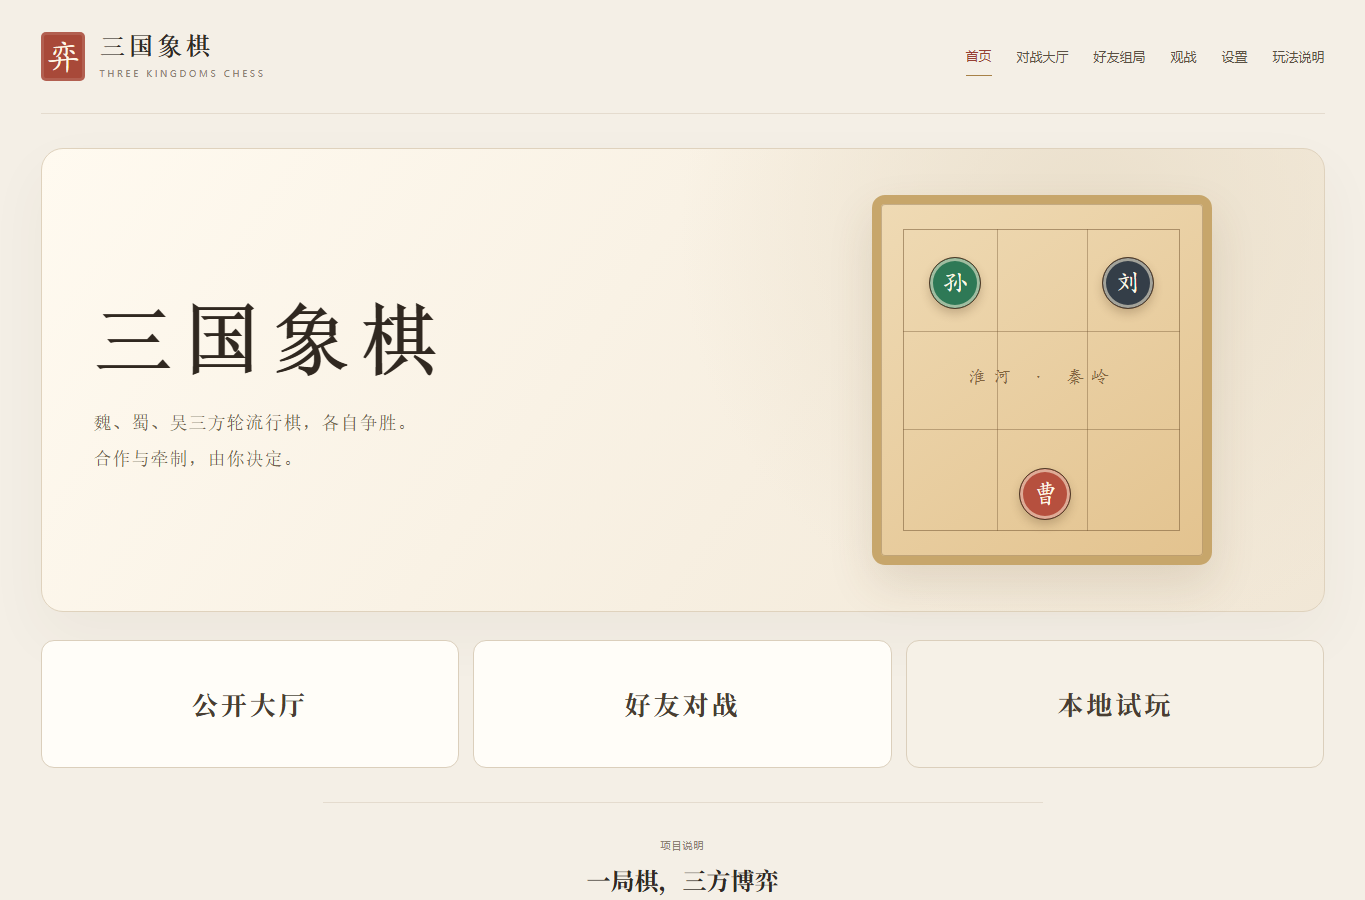
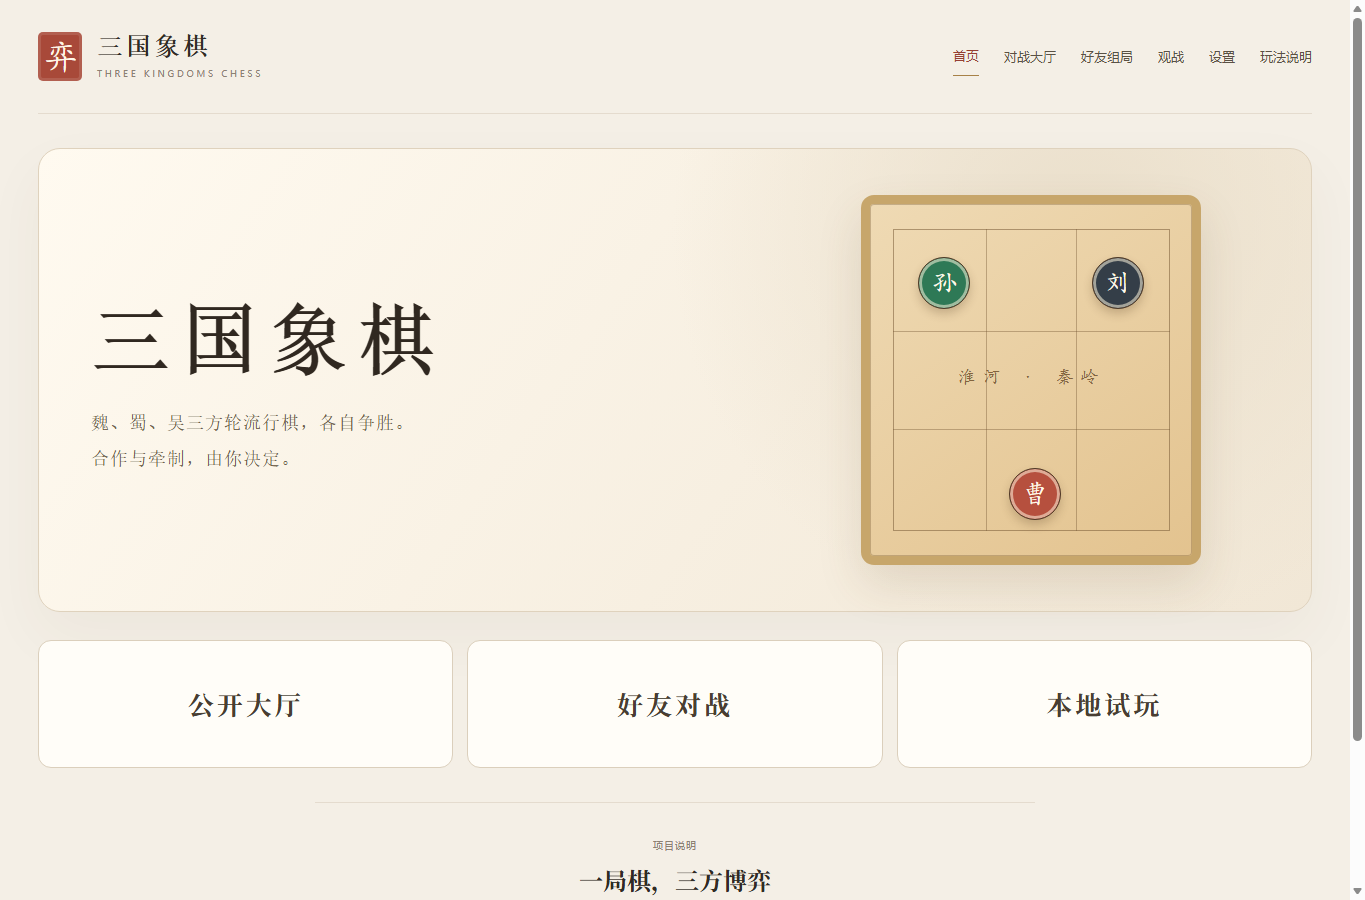
feat: refine friend lobby typography

diff --git a/src/components/LobbyPage.vue b/src/components/LobbyPage.vue
@@ -38,10 +38,7 @@ const emit = defineEmits<{
 
 const online = computed(() => props.connection === 'online');
 const phaseLabel = (phase: RoomPhase) => phase === 'lobby' ? '等待中' : phase === 'playing' ? '对局中' : '已结束';
-const title = computed(() => props.mode === 'public' ? '公开对战大厅' : '与好友对弈');
-const subtitle = computed(() => props.mode === 'public'
-  ? ''
-  : '创建 6 位数字房间，把号码或邀请链接发给朋友。');
+const title = computed(() => props.mode === 'public' ? '公开对战大厅' : '好友对弈');
 const publicRoom = computed(() => props.rooms.find(room => room.code === PUBLIC_ROOM_CODE) ?? null);
 const tableSlots = computed(() => Array.from({ length: 9 }, (_, index) =>
   props.rooms.filter(room => room.code !== PUBLIC_ROOM_CODE)[index] ?? null));
@@ -109,9 +106,7 @@ function submitTableDialog() {
     </div>
 
     <header class="lobby-page-heading">
-      <span class="eyebrow">游客体验 · 无需登录</span>
       <h1>{{ title }}</h1>
-      <p v-if="subtitle">{{ subtitle }}</p>
     </header>
 
     <div v-if="hasRoom" class="lobby-current-room">
@@ -233,4 +228,16 @@ function submitTableDialog() {
 
 <style scoped>
 .club-unassigned{max-width:190px;overflow:hidden;text-overflow:ellipsis;white-space:nowrap;color:#9c503c!important}
+.lobby-card-kicker{font-size:10px;font-weight:700}
+.lobby-entry-card h2{font-size:24px}
+.lobby-entry-card label{font-size:13px;font-weight:600;color:#625444}
+.lobby-entry-card input{font-size:14px;font-weight:500;color:#43382d}
+.lobby-entry-card input::placeholder{color:#8c7a66;font-weight:500;opacity:1}
+.lobby-entry-card .lobby-listed-option{font-size:12px;font-weight:600}
+.lobby-join-card>p{font-size:12px;font-weight:500;line-height:1.7}
+.lobby-seat-dialog label{font-size:13px;font-weight:600;color:#625444}
+.lobby-seat-dialog input{font-size:14px;font-weight:500;color:#43382d}
+.lobby-seat-dialog input::placeholder{color:#8c7a66;font-weight:500;opacity:1}
+.lobby-seat-as{font-size:12px;font-weight:600}
+.lobby-seat-factions button{font-size:11px;font-weight:600}
 </style>

diff --git a/src/App.vue b/src/App.vue
@@ -522,3 +522,9 @@ async function requestRematch() {
     <dialog ref="exitDialog" class="reset-dialog"><h2>确认退出房间？</h2><p>你仍在对局中，退出将先按认输出局，再返回大厅。断网时本机立即退出，服务器恢复连接后补发通知。</p><div class="dialog-actions"><button class="tool-button" @click="exitDialog?.close()">继续对局</button><button class="primary-button" @click="confirmLeave">确认退出</button></div></dialog>
   </div>
 </template>
+
+<style scoped>
+.watch-entry .join-row input{font-size:14px;font-weight:500}
+.watch-entry .join-row input::placeholder{color:#8c7a66;font-weight:500;opacity:1}
+.watch-entry .join-row .primary-button{font-size:12px;font-weight:600}
+</style>

diff --git a/tests/ui.test.ts b/tests/ui.test.ts
@@ -51,7 +51,8 @@ test('new visitors start on the home page and can open local play, rules, friend
 
   await wrapper.findAll('.home-action-card').find(button => button.text() === '好友对战')!.trigger('click');
   assert.ok(wrapper.find('.lobby-page').exists());
-  assert.match(wrapper.get('.lobby-page-heading h1').text(), /与好友对弈/);
+  assert.equal(wrapper.get('.lobby-page-heading h1').text(), '好友对弈');
+  assert.doesNotMatch(wrapper.get('.lobby-page-heading').text(), /游客体验|无需登录|创建 6 位数字房间/);
 
   wrapper.unmount(); wrapper = mountHome();
   await wrapper.findAll('.home-action-card').find(button => button.text() === '公开大厅')!.trigger('click');

diff --git a/src/components/HomePage.vue b/src/components/HomePage.vue
@@ -47,7 +47,7 @@ const resumeLabel = computed(() => props.roomPhase === 'lobby' ? '返回房间' 
       <button class="home-action-card" @click="emit('friends')">
         <strong>好友对战</strong>
       </button>
-      <button class="home-action-card home-local-card" @click="emit('local')">
+      <button class="home-action-card" @click="emit('local')">
         <strong>本地试玩</strong>
       </button>
     </section>

diff --git a/docs/V0.1验收清单.md b/docs/V0.1验收清单.md
@@ -20,6 +20,7 @@
 
 - [x] 新访客首先进入游戏首页，可进入公开大厅、好友组局、本地试玩和玩法说明；首页不展开完整棋盘。
 - [x] 首页三个主入口按“公开大厅 / 好友对战 / 本地试玩”排列，仅展示大标题；三张静态阵营卡、首屏重复入口及页尾重复的玩法说明/设置均已删除。
+- [x] 好友页标题为“好友对弈”，移除游客提示和说明段；好友页、席位弹框及观战入口的字段标签、输入内容和占位提示均已放大加粗。
 - [x] 公开大厅固定展示 10 桌：首桌为常驻公开房间，其余 9 桌无人时显示空桌，创建后显示房间号并点亮；“棋社桌位”标题已移除。
 - [x] 每桌包含曹操、刘备、孙权席位及中间房间状态，公开摘要不包含棋局和重连凭证。
 - [x] 三个席位均可点击；弹框只显示可选“昵称：”，不要求昵称，加入时直接坐到所点阵营，空桌创建时输入 6 位房间号。

diff --git a/README.md b/README.md
@@ -149,6 +149,7 @@ npm run build
 | 验收页面 | 桌面 | 手机 400×811 |
 | --- | --- | --- |
 | 游戏首页 | [截图](docs/验收截图/2026-11-01-home-desktop.png) | [截图](docs/验收截图/2026-11-01-home-mobile.png) |
+| 好友对弈 | [截图](docs/验收截图/2026-11-01-friends-desktop.png) | [截图](docs/验收截图/2026-11-01-friends-mobile.png) |
 | 公开大厅 | [截图](docs/验收截图/2026-11-01-lobby-desktop.png) | [截图](docs/验收截图/2026-11-01-lobby-mobile.png) |
 | 棋社 10 桌列表 | [截图](docs/验收截图/2026-11-01-lobby-rooms-desktop.png) | [截图](docs/验收截图/2026-11-01-lobby-rooms-mobile.png) |
 | 席位昵称弹框 | [截图](docs/验收截图/2026-11-01-lobby-seat-dialog-desktop.png) | — |
